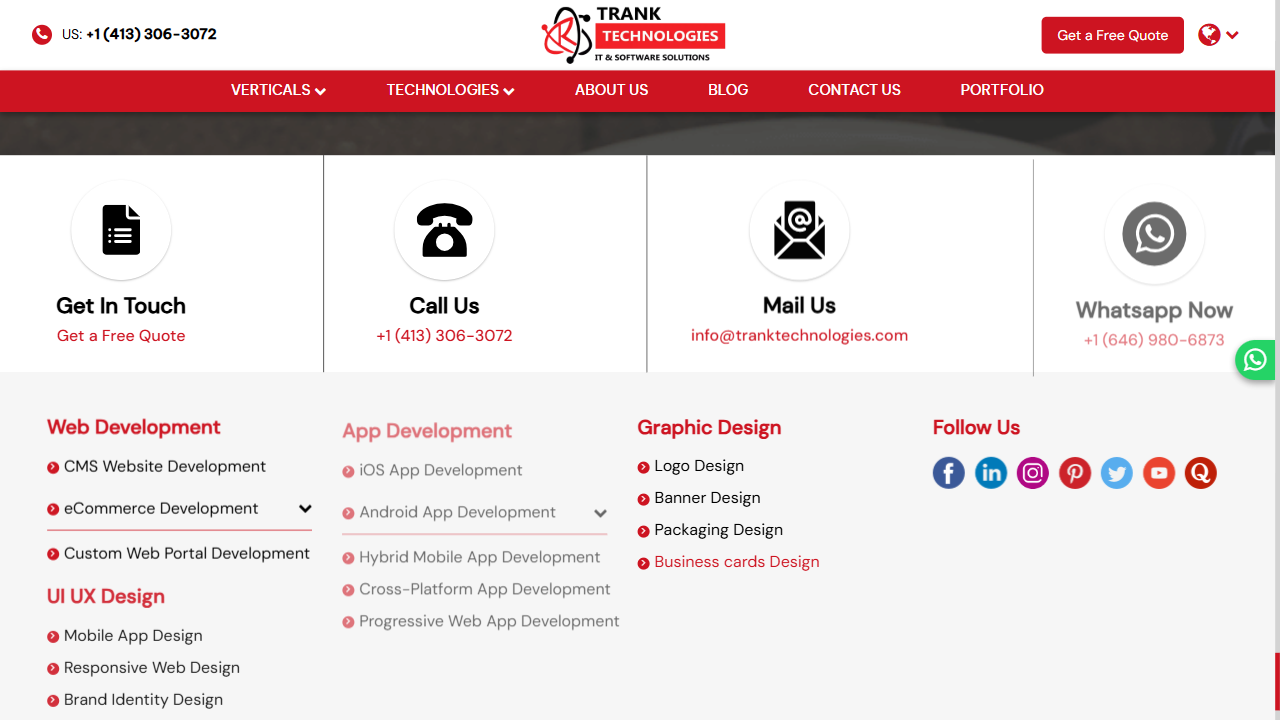
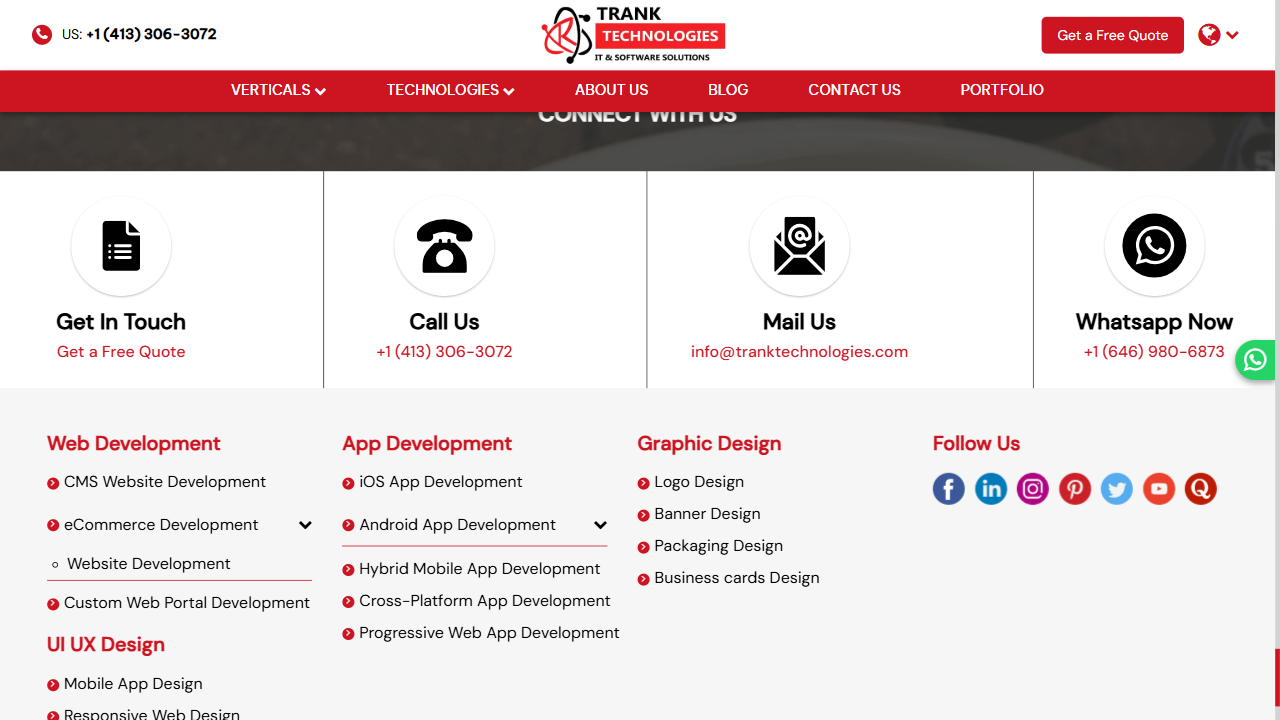
first commit

diff --git a/Automation/TrunkTechnologies/report.html b/Automation/TrunkTechnologies/report.html
@@ -328,7 +328,7 @@ div.media {
   </head>
   <body>
     <h1 id="title">report.html</h1>
-    <p>Report generated on 03-Jul-2026 at 00:01:16 by <a href="https://pypi.python.org/pypi/pytest-html">pytest-html</a>
+    <p>Report generated on 08-Jul-2026 at 00:35:15 by <a href="https://pypi.python.org/pypi/pytest-html">pytest-html</a>
         v4.2.0</p>
     <div id="environment-header">
       <h2>Environment</h2>
@@ -383,7 +383,7 @@ div.media {
         <h2>Summary</h2>
         <div class="additional-summary prefix">
         </div>
-        <p class="run-count">12 tests took 00:02:45.</p>
+        <p class="run-count">0 test took 192 ms.</p>
         <p class="filter">(Un)check the boxes to filter the results.</p>
         <div class="summary__reload">
           <div class="summary__reload__button hidden" onclick="location.reload()">
@@ -395,16 +395,16 @@ div.media {
           <div class="filters">
             <input checked="true" class="filter" name="filter_checkbox" type="checkbox" data-test-result="failed" disabled>
             <span class="failed">0 Failed,</span>
-            <input checked="true" class="filter" name="filter_checkbox" type="checkbox" data-test-result="passed" >
-            <span class="passed">12 Passed,</span>
+            <input checked="true" class="filter" name="filter_checkbox" type="checkbox" data-test-result="passed" disabled>
+            <span class="passed">0 Passed,</span>
             <input checked="true" class="filter" name="filter_checkbox" type="checkbox" data-test-result="skipped" disabled>
             <span class="skipped">0 Skipped,</span>
             <input checked="true" class="filter" name="filter_checkbox" type="checkbox" data-test-result="xfailed" disabled>
             <span class="xfailed">0 Expected failures,</span>
             <input checked="true" class="filter" name="filter_checkbox" type="checkbox" data-test-result="xpassed" disabled>
             <span class="xpassed">0 Unexpected passes,</span>
-            <input checked="true" class="filter" name="filter_checkbox" type="checkbox" data-test-result="error" disabled>
-            <span class="error">0 Errors,</span>
+            <input checked="true" class="filter" name="filter_checkbox" type="checkbox" data-test-result="error" >
+            <span class="error">6 Errors,</span>
             <input checked="true" class="filter" name="filter_checkbox" type="checkbox" data-test-result="rerun" disabled>
             <span class="rerun">0 Reruns</span>
             <input checked="true" class="filter" name="filter_checkbox" type="checkbox" data-test-result="retried" disabled>
@@ -431,7 +431,7 @@ div.media {
       </thead>
     </table>
   <footer>
-    <div id="data-container" data-jsonblob="{&#34;environment&#34;: {&#34;Python&#34;: &#34;3.14.4&#34;, &#34;Platform&#34;: &#34;Windows-11-10.0.26200-SP0&#34;, &#34;Packages&#34;: {&#34;pytest&#34;: &#34;9.1.1&#34;, &#34;pluggy&#34;: &#34;1.6.0&#34;}, &#34;Plugins&#34;: {&#34;allure-pytest&#34;: &#34;2.16.0&#34;, &#34;base-url&#34;: &#34;2.1.0&#34;, &#34;html&#34;: &#34;4.2.0&#34;, &#34;metadata&#34;: &#34;3.1.1&#34;, &#34;playwright&#34;: &#34;0.8.0&#34;}, &#34;Base URL&#34;: &#34;&#34;}, &#34;tests&#34;: {&#34;tests/test_blog.py::test_blog_click_elements&#34;: [{&#34;extras&#34;: [], &#34;result&#34;: &#34;Passed&#34;, &#34;testId&#34;: &#34;tests/test_blog.py::test_blog_click_elements&#34;, &#34;duration&#34;: &#34;00:00:25&#34;, &#34;resultsTableRow&#34;: [&#34;&lt;td class=\&#34;col-result\&#34;&gt;Passed&lt;/td&gt;&#34;, &#34;&lt;td class=\&#34;col-testId\&#34;&gt;tests/test_blog.py::test_blog_click_elements&lt;/td&gt;&#34;, &#34;&lt;td class=\&#34;col-duration\&#34;&gt;00:00:25&lt;/td&gt;&#34;, &#34;&lt;td class=\&#34;col-links\&#34;&gt;&lt;/td&gt;&#34;], &#34;log&#34;: &#34;----------------------------- Captured stdout call -----------------------------\nsuccessfully clicked on the element\nsuccessfully clicked on the element\nsuccessfully clicked on the element\nsuccessfully clicked on the element\nsuccessfully clicked on the element\nsuccessfully clicked on the element\n&#34;}], &#34;tests/test_contact.py::test_contact_form&#34;: [{&#34;extras&#34;: [], &#34;result&#34;: &#34;Passed&#34;, &#34;testId&#34;: &#34;tests/test_contact.py::test_contact_form&#34;, &#34;duration&#34;: &#34;00:00:01&#34;, &#34;resultsTableRow&#34;: [&#34;&lt;td class=\&#34;col-result\&#34;&gt;Passed&lt;/td&gt;&#34;, &#34;&lt;td class=\&#34;col-testId\&#34;&gt;tests/test_contact.py::test_contact_form&lt;/td&gt;&#34;, &#34;&lt;td class=\&#34;col-duration\&#34;&gt;00:00:01&lt;/td&gt;&#34;, &#34;&lt;td class=\&#34;col-links\&#34;&gt;&lt;/td&gt;&#34;], &#34;log&#34;: &#34;No log output captured.&#34;}], &#34;tests/test_portfol.py::test_portfolio_hover&#34;: [{&#34;extras&#34;: [], &#34;result&#34;: &#34;Passed&#34;, &#34;testId&#34;: &#34;tests/test_portfol.py::test_portfolio_hover&#34;, &#34;duration&#34;: &#34;00:00:02&#34;, &#34;resultsTableRow&#34;: [&#34;&lt;td class=\&#34;col-result\&#34;&gt;Passed&lt;/td&gt;&#34;, &#34;&lt;td class=\&#34;col-testId\&#34;&gt;tests/test_portfol.py::test_portfolio_hover&lt;/td&gt;&#34;, &#34;&lt;td class=\&#34;col-duration\&#34;&gt;00:00:02&lt;/td&gt;&#34;, &#34;&lt;td class=\&#34;col-links\&#34;&gt;&lt;/td&gt;&#34;], &#34;log&#34;: &#34;No log output captured.&#34;}], &#34;tests/test_tchnology.py::test_technology_hover&#34;: [{&#34;extras&#34;: [], &#34;result&#34;: &#34;Passed&#34;, &#34;testId&#34;: &#34;tests/test_tchnology.py::test_technology_hover&#34;, &#34;duration&#34;: &#34;00:00:07&#34;, &#34;resultsTableRow&#34;: [&#34;&lt;td class=\&#34;col-result\&#34;&gt;Passed&lt;/td&gt;&#34;, &#34;&lt;td class=\&#34;col-testId\&#34;&gt;tests/test_tchnology.py::test_technology_hover&lt;/td&gt;&#34;, &#34;&lt;td class=\&#34;col-duration\&#34;&gt;00:00:07&lt;/td&gt;&#34;, &#34;&lt;td class=\&#34;col-links\&#34;&gt;&lt;/td&gt;&#34;], &#34;log&#34;: &#34;----------------------------- Captured stdout call -----------------------------\nsuccessfully hovered on the element\nsuccessfully hovered on the element\nsuccessfully hovered on the element\n&#34;}], &#34;tests/test_tchnology.py::test_technology_ecommerce&#34;: [{&#34;extras&#34;: [], &#34;result&#34;: &#34;Passed&#34;, &#34;testId&#34;: &#34;tests/test_tchnology.py::test_technology_ecommerce&#34;, &#34;duration&#34;: &#34;00:00:24&#34;, &#34;resultsTableRow&#34;: [&#34;&lt;td class=\&#34;col-result\&#34;&gt;Passed&lt;/td&gt;&#34;, &#34;&lt;td class=\&#34;col-testId\&#34;&gt;tests/test_tchnology.py::test_technology_ecommerce&lt;/td&gt;&#34;, &#34;&lt;td class=\&#34;col-duration\&#34;&gt;00:00:24&lt;/td&gt;&#34;, &#34;&lt;td class=\&#34;col-links\&#34;&gt;&lt;/td&gt;&#34;], &#34;log&#34;: &#34;----------------------------- Captured stdout call -----------------------------\nsuccessfully clicked on the element\nsuccessfully clicked on the element\nsuccessfully clicked on the element\nsuccessfully clicked on the element\nsuccessfully clicked on the element\nsuccessfully clicked on the element\nsuccessfully clicked on the element\nsuccessfully clicked on the element\n&#34;}], &#34;tests/test_tchnology.py::test_technology_mobile&#34;: [{&#34;extras&#34;: [], &#34;result&#34;: &#34;Passed&#34;, &#34;testId&#34;: &#34;tests/test_tchnology.py::test_technology_mobile&#34;, &#34;duration&#34;: &#34;00:00:20&#34;, &#34;resultsTableRow&#34;: [&#34;&lt;td class=\&#34;col-result\&#34;&gt;Passed&lt;/td&gt;&#34;, &#34;&lt;td class=\&#34;col-testId\&#34;&gt;tests/test_tchnology.py::test_technology_mobile&lt;/td&gt;&#34;, &#34;&lt;td class=\&#34;col-duration\&#34;&gt;00:00:20&lt;/td&gt;&#34;, &#34;&lt;td class=\&#34;col-links\&#34;&gt;&lt;/td&gt;&#34;], &#34;log&#34;: &#34;----------------------------- Captured stdout call -----------------------------\nsuccessfully clicked on the element\nsuccessfully clicked on the element\nsuccessfully clicked on the element\nsuccessfully clicked on the element\nsuccessfully clicked on the element\nsuccessfully clicked on the element\n&#34;}], &#34;tests/test_vertical.py::test_vertical_hover&#34;: [{&#34;extras&#34;: [], &#34;result&#34;: &#34;Passed&#34;, &#34;testId&#34;: &#34;tests/test_vertical.py::test_vertical_hover&#34;, &#34;duration&#34;: &#34;00:00:11&#34;, &#34;resultsTableRow&#34;: [&#34;&lt;td class=\&#34;col-result\&#34;&gt;Passed&lt;/td&gt;&#34;, &#34;&lt;td class=\&#34;col-testId\&#34;&gt;tests/test_vertical.py::test_vertical_hover&lt;/td&gt;&#34;, &#34;&lt;td class=\&#34;col-duration\&#34;&gt;00:00:11&lt;/td&gt;&#34;, &#34;&lt;td class=\&#34;col-links\&#34;&gt;&lt;/td&gt;&#34;], &#34;log&#34;: &#34;----------------------------- Captured stdout call -----------------------------\nsuccessfully hovered on the element\nsuccessfully hovered on the element\nsuccessfully hovered on the element\nsuccessfully hovered on the element\nsuccessfully hovered on the element\n&#34;}], &#34;tests/test_vertical.py::test_vertical_trading&#34;: [{&#34;extras&#34;: [], &#34;result&#34;: &#34;Passed&#34;, &#34;testId&#34;: &#34;tests/test_vertical.py::test_vertical_trading&#34;, &#34;duration&#34;: &#34;00:00:18&#34;, &#34;resultsTableRow&#34;: [&#34;&lt;td class=\&#34;col-result\&#34;&gt;Passed&lt;/td&gt;&#34;, &#34;&lt;td class=\&#34;col-testId\&#34;&gt;tests/test_vertical.py::test_vertical_trading&lt;/td&gt;&#34;, &#34;&lt;td class=\&#34;col-duration\&#34;&gt;00:00:18&lt;/td&gt;&#34;, &#34;&lt;td class=\&#34;col-links\&#34;&gt;&lt;/td&gt;&#34;], &#34;log&#34;: &#34;----------------------------- Captured stdout call -----------------------------\nsuccessfully clicked trading link\nsuccessfully clicked trading link\nsuccessfully clicked trading link\nsuccessfully clicked trading link\nsuccessfully clicked trading link\nsuccessfully clicked trading link\nsuccessfully clicked trading link\n&#34;}], &#34;tests/test_vertical.py::test_vertical_retail&#34;: [{&#34;extras&#34;: [], &#34;result&#34;: &#34;Passed&#34;, &#34;testId&#34;: &#34;tests/test_vertical.py::test_vertical_retail&#34;, &#34;duration&#34;: &#34;00:00:02&#34;, &#34;resultsTableRow&#34;: [&#34;&lt;td class=\&#34;col-result\&#34;&gt;Passed&lt;/td&gt;&#34;, &#34;&lt;td class=\&#34;col-testId\&#34;&gt;tests/test_vertical.py::test_vertical_retail&lt;/td&gt;&#34;, &#34;&lt;td class=\&#34;col-duration\&#34;&gt;00:00:02&lt;/td&gt;&#34;, &#34;&lt;td class=\&#34;col-links\&#34;&gt;&lt;/td&gt;&#34;], &#34;log&#34;: &#34;----------------------------- Captured stdout call -----------------------------\nsuccessfully clicked retail link\n&#34;}], &#34;tests/test_vertical.py::test_vertical_healthcare&#34;: [{&#34;extras&#34;: [], &#34;result&#34;: &#34;Passed&#34;, &#34;testId&#34;: &#34;tests/test_vertical.py::test_vertical_healthcare&#34;, &#34;duration&#34;: &#34;00:00:04&#34;, &#34;resultsTableRow&#34;: [&#34;&lt;td class=\&#34;col-result\&#34;&gt;Passed&lt;/td&gt;&#34;, &#34;&lt;td class=\&#34;col-testId\&#34;&gt;tests/test_vertical.py::test_vertical_healthcare&lt;/td&gt;&#34;, &#34;&lt;td class=\&#34;col-duration\&#34;&gt;00:00:04&lt;/td&gt;&#34;, &#34;&lt;td class=\&#34;col-links\&#34;&gt;&lt;/td&gt;&#34;], &#34;log&#34;: &#34;----------------------------- Captured stdout call -----------------------------\nsuccessfully clicked healthcare link\nsuccessfully clicked healthcare link\n&#34;}], &#34;tests/test_vertical.py::test_vertical_fintech&#34;: [{&#34;extras&#34;: [], &#34;result&#34;: &#34;Passed&#34;, &#34;testId&#34;: &#34;tests/test_vertical.py::test_vertical_fintech&#34;, &#34;duration&#34;: &#34;00:00:05&#34;, &#34;resultsTableRow&#34;: [&#34;&lt;td class=\&#34;col-result\&#34;&gt;Passed&lt;/td&gt;&#34;, &#34;&lt;td class=\&#34;col-testId\&#34;&gt;tests/test_vertical.py::test_vertical_fintech&lt;/td&gt;&#34;, &#34;&lt;td class=\&#34;col-duration\&#34;&gt;00:00:05&lt;/td&gt;&#34;, &#34;&lt;td class=\&#34;col-links\&#34;&gt;&lt;/td&gt;&#34;], &#34;log&#34;: &#34;----------------------------- Captured stdout call -----------------------------\nsuccessfully clicked fintech link\nsuccessfully clicked fintech link\n&#34;}], &#34;tests/test_vertical.py::test_vertical_custom_app&#34;: [{&#34;extras&#34;: [], &#34;result&#34;: &#34;Passed&#34;, &#34;testId&#34;: &#34;tests/test_vertical.py::test_vertical_custom_app&#34;, &#34;duration&#34;: &#34;00:00:45&#34;, &#34;resultsTableRow&#34;: [&#34;&lt;td class=\&#34;col-result\&#34;&gt;Passed&lt;/td&gt;&#34;, &#34;&lt;td class=\&#34;col-testId\&#34;&gt;tests/test_vertical.py::test_vertical_custom_app&lt;/td&gt;&#34;, &#34;&lt;td class=\&#34;col-duration\&#34;&gt;00:00:45&lt;/td&gt;&#34;, &#34;&lt;td class=\&#34;col-links\&#34;&gt;&lt;/td&gt;&#34;], &#34;log&#34;: &#34;----------------------------- Captured stdout call -----------------------------\nsuccessfully clicked custom app link\nsuccessfully clicked custom app link\nsuccessfully clicked custom app link\nsuccessfully clicked custom app link\nsuccessfully clicked custom app link\nsuccessfully clicked custom app link\nsuccessfully clicked custom app link\nsuccessfully clicked custom app link\nsuccessfully clicked custom app link\n&#34;}]}, &#34;renderCollapsed&#34;: [&#34;passed&#34;], &#34;initialSort&#34;: &#34;result&#34;, &#34;title&#34;: &#34;report.html&#34;}"></div>
+    <div id="data-container" data-jsonblob="{&#34;environment&#34;: {&#34;Python&#34;: &#34;3.14.4&#34;, &#34;Platform&#34;: &#34;Windows-11-10.0.26200-SP0&#34;, &#34;Packages&#34;: {&#34;pytest&#34;: &#34;9.1.1&#34;, &#34;pluggy&#34;: &#34;1.6.0&#34;}, &#34;Plugins&#34;: {&#34;allure-pytest&#34;: &#34;2.16.0&#34;, &#34;base-url&#34;: &#34;2.1.0&#34;, &#34;html&#34;: &#34;4.2.0&#34;, &#34;metadata&#34;: &#34;3.1.1&#34;, &#34;playwright&#34;: &#34;0.8.0&#34;}, &#34;Base URL&#34;: &#34;&#34;}, &#34;tests&#34;: {&#34;tests/test_about.py&#34;: [{&#34;extras&#34;: [], &#34;result&#34;: &#34;Error&#34;, &#34;testId&#34;: &#34;tests/test_about.py::collect&#34;, &#34;duration&#34;: &#34;0 ms&#34;, &#34;resultsTableRow&#34;: [&#34;&lt;td class=\&#34;col-result\&#34;&gt;Error&lt;/td&gt;&#34;, &#34;&lt;td class=\&#34;col-testId\&#34;&gt;tests/test_about.py::collect&lt;/td&gt;&#34;, &#34;&lt;td class=\&#34;col-duration\&#34;&gt;0 ms&lt;/td&gt;&#34;, &#34;&lt;td class=\&#34;col-links\&#34;&gt;&lt;/td&gt;&#34;], &#34;log&#34;: &#34;import file mismatch:\nimported module &amp;#x27;test_about&amp;#x27; has this __file__ attribute:\n  D:\\PlayWrite\\Automation\\TrunkTechnologies\\Playwright_Files\\Automation\\TrunkTechnologies\\tests\\test_about.py\nwhich is not the same as the test file we want to collect:\n  D:\\PlayWrite\\Automation\\TrunkTechnologies\\tests\\test_about.py\nHINT: remove __pycache__ / .pyc files and/or use a unique basename for your test file modules\n&#34;}], &#34;tests/test_blog.py&#34;: [{&#34;extras&#34;: [], &#34;result&#34;: &#34;Error&#34;, &#34;testId&#34;: &#34;tests/test_blog.py::collect&#34;, &#34;duration&#34;: &#34;0 ms&#34;, &#34;resultsTableRow&#34;: [&#34;&lt;td class=\&#34;col-result\&#34;&gt;Error&lt;/td&gt;&#34;, &#34;&lt;td class=\&#34;col-testId\&#34;&gt;tests/test_blog.py::collect&lt;/td&gt;&#34;, &#34;&lt;td class=\&#34;col-duration\&#34;&gt;0 ms&lt;/td&gt;&#34;, &#34;&lt;td class=\&#34;col-links\&#34;&gt;&lt;/td&gt;&#34;], &#34;log&#34;: &#34;import file mismatch:\nimported module &amp;#x27;test_blog&amp;#x27; has this __file__ attribute:\n  D:\\PlayWrite\\Automation\\TrunkTechnologies\\Playwright_Files\\Automation\\TrunkTechnologies\\tests\\test_blog.py\nwhich is not the same as the test file we want to collect:\n  D:\\PlayWrite\\Automation\\TrunkTechnologies\\tests\\test_blog.py\nHINT: remove __pycache__ / .pyc files and/or use a unique basename for your test file modules\n&#34;}], &#34;tests/test_contact.py&#34;: [{&#34;extras&#34;: [], &#34;result&#34;: &#34;Error&#34;, &#34;testId&#34;: &#34;tests/test_contact.py::collect&#34;, &#34;duration&#34;: &#34;0 ms&#34;, &#34;resultsTableRow&#34;: [&#34;&lt;td class=\&#34;col-result\&#34;&gt;Error&lt;/td&gt;&#34;, &#34;&lt;td class=\&#34;col-testId\&#34;&gt;tests/test_contact.py::collect&lt;/td&gt;&#34;, &#34;&lt;td class=\&#34;col-duration\&#34;&gt;0 ms&lt;/td&gt;&#34;, &#34;&lt;td class=\&#34;col-links\&#34;&gt;&lt;/td&gt;&#34;], &#34;log&#34;: &#34;import file mismatch:\nimported module &amp;#x27;test_contact&amp;#x27; has this __file__ attribute:\n  D:\\PlayWrite\\Automation\\TrunkTechnologies\\Playwright_Files\\Automation\\TrunkTechnologies\\tests\\test_contact.py\nwhich is not the same as the test file we want to collect:\n  D:\\PlayWrite\\Automation\\TrunkTechnologies\\tests\\test_contact.py\nHINT: remove __pycache__ / .pyc files and/or use a unique basename for your test file modules\n&#34;}], &#34;tests/test_portfol.py&#34;: [{&#34;extras&#34;: [], &#34;result&#34;: &#34;Error&#34;, &#34;testId&#34;: &#34;tests/test_portfol.py::collect&#34;, &#34;duration&#34;: &#34;0 ms&#34;, &#34;resultsTableRow&#34;: [&#34;&lt;td class=\&#34;col-result\&#34;&gt;Error&lt;/td&gt;&#34;, &#34;&lt;td class=\&#34;col-testId\&#34;&gt;tests/test_portfol.py::collect&lt;/td&gt;&#34;, &#34;&lt;td class=\&#34;col-duration\&#34;&gt;0 ms&lt;/td&gt;&#34;, &#34;&lt;td class=\&#34;col-links\&#34;&gt;&lt;/td&gt;&#34;], &#34;log&#34;: &#34;import file mismatch:\nimported module &amp;#x27;test_portfol&amp;#x27; has this __file__ attribute:\n  D:\\PlayWrite\\Automation\\TrunkTechnologies\\Playwright_Files\\Automation\\TrunkTechnologies\\tests\\test_portfol.py\nwhich is not the same as the test file we want to collect:\n  D:\\PlayWrite\\Automation\\TrunkTechnologies\\tests\\test_portfol.py\nHINT: remove __pycache__ / .pyc files and/or use a unique basename for your test file modules\n&#34;}], &#34;tests/test_tchnology.py&#34;: [{&#34;extras&#34;: [], &#34;result&#34;: &#34;Error&#34;, &#34;testId&#34;: &#34;tests/test_tchnology.py::collect&#34;, &#34;duration&#34;: &#34;0 ms&#34;, &#34;resultsTableRow&#34;: [&#34;&lt;td class=\&#34;col-result\&#34;&gt;Error&lt;/td&gt;&#34;, &#34;&lt;td class=\&#34;col-testId\&#34;&gt;tests/test_tchnology.py::collect&lt;/td&gt;&#34;, &#34;&lt;td class=\&#34;col-duration\&#34;&gt;0 ms&lt;/td&gt;&#34;, &#34;&lt;td class=\&#34;col-links\&#34;&gt;&lt;/td&gt;&#34;], &#34;log&#34;: &#34;import file mismatch:\nimported module &amp;#x27;test_tchnology&amp;#x27; has this __file__ attribute:\n  D:\\PlayWrite\\Automation\\TrunkTechnologies\\Playwright_Files\\Automation\\TrunkTechnologies\\tests\\test_tchnology.py\nwhich is not the same as the test file we want to collect:\n  D:\\PlayWrite\\Automation\\TrunkTechnologies\\tests\\test_tchnology.py\nHINT: remove __pycache__ / .pyc files and/or use a unique basename for your test file modules\n&#34;}], &#34;tests/test_vertical.py&#34;: [{&#34;extras&#34;: [], &#34;result&#34;: &#34;Error&#34;, &#34;testId&#34;: &#34;tests/test_vertical.py::collect&#34;, &#34;duration&#34;: &#34;0 ms&#34;, &#34;resultsTableRow&#34;: [&#34;&lt;td class=\&#34;col-result\&#34;&gt;Error&lt;/td&gt;&#34;, &#34;&lt;td class=\&#34;col-testId\&#34;&gt;tests/test_vertical.py::collect&lt;/td&gt;&#34;, &#34;&lt;td class=\&#34;col-duration\&#34;&gt;0 ms&lt;/td&gt;&#34;, &#34;&lt;td class=\&#34;col-links\&#34;&gt;&lt;/td&gt;&#34;], &#34;log&#34;: &#34;import file mismatch:\nimported module &amp;#x27;test_vertical&amp;#x27; has this __file__ attribute:\n  D:\\PlayWrite\\Automation\\TrunkTechnologies\\Playwright_Files\\Automation\\TrunkTechnologies\\tests\\test_vertical.py\nwhich is not the same as the test file we want to collect:\n  D:\\PlayWrite\\Automation\\TrunkTechnologies\\tests\\test_vertical.py\nHINT: remove __pycache__ / .pyc files and/or use a unique basename for your test file modules\n&#34;}]}, &#34;renderCollapsed&#34;: [&#34;passed&#34;], &#34;initialSort&#34;: &#34;result&#34;, &#34;title&#34;: &#34;report.html&#34;}"></div>
     <script>
       (function(){function r(e,n,t){function o(i,f){if(!n[i]){if(!e[i]){var c="function"==typeof require&&require;if(!f&&c)return c(i,!0);if(u)return u(i,!0);var a=new Error("Cannot find module '"+i+"'");throw a.code="MODULE_NOT_FOUND",a}var p=n[i]={exports:{}};e[i][0].call(p.exports,function(r){var n=e[i][1][r];return o(n||r)},p,p.exports,r,e,n,t)}return n[i].exports}for(var u="function"==typeof require&&require,i=0;i<t.length;i++)o(t[i]);return o}return r})()({1:[function(require,module,exports){
 const { getCollapsedCategory, setCollapsedIds } = require('./storage.js')

diff --git a/Automation/TrunkTechnologies/conftest.py b/Automation/TrunkTechnologies/conftest.py
@@ -1,33 +1,46 @@
+import shutil
 from pathlib import Path
+
 import pytest
-from playwright.sync_api import sync_playwright
 import pytest_html
+from playwright.sync_api import sync_playwright
 
 from config import url
 
[email redacted](scope="session")
+
+def _ensure_output_dirs() -> None:
+    Path("screenshots").mkdir(exist_ok=True)
+    Path("videos").mkdir(exist_ok=True)
 
 
-def page(request):
-    
[email redacted]
+def page():
+    _ensure_output_dirs()
+
     p = sync_playwright().start()
-    browser=p.chromium.launch(headless=False)
-    context = browser.new_context(ignore_https_errors=True)
+    browser = p.chromium.launch(headless=False)
+    context = browser.new_context(
+        ignore_https_errors=True,
+        record_video_dir=str(Path("videos")),
+        record_video_size={"width": 1280, "height": 720},
+    )
     page = context.new_page()
 
     page.goto(url)
     page.wait_for_load_state("load")
-    
-    
+
     yield page
 
-    context.close()
-    browser.close()
-    p.stop()
+    try:
+        context.close()
+    except Exception:
+        pass
+    finally:
+        browser.close()
+        p.stop()
 
 
 @pytest.hookimpl(hookwrapper=True)
-
 def pytest_runtest_makereport(item, call):
     outcome = yield
     report = outcome.get_result()
@@ -38,98 +51,33 @@ def pytest_runtest_makereport(item, call):
         page = item.funcargs.get("page")
 
         if page:
-            screenshots_dir = Path("screenshots")
-            screenshots_dir.mkdir(exist_ok=True)
+            _ensure_output_dirs()
 
-            file_name = screenshots_dir / f"{item.name}.png"
+            screenshot_path = Path("screenshots") / f"{item.name}.png"
+            page.screenshot(path=str(screenshot_path))
+            extra.append(pytest_html.extras.image(str(screenshot_path)))
 
-            page.screenshot(path=str(file_name))
+            try:
+                context = page.context
+                context.close()
+            except Exception as exc:
+                print(f"[Warning] Could not close context before reading video: {exc}")
 
-            extra.append(pytest_html.extras.image(str(file_name)))
+            try:
+                video = getattr(page, "video", None)
+                if video:
+                    video_path = video.path()
+                    if video_path and Path(video_path).exists():
+                        video_name = Path("videos") / f"{item.name}.webm"
+                        shutil.copy2(video_path, video_name)
+                        extra.append(
+                            pytest_html.extras.html(
+                                f'<video width="320" height="240" controls><source src="{video_name}" type="video/webm"></video>'
+                            )
+                        )
+                    else:
+                        print("[Warning] No video was recorded for this failure.")
+            except Exception as exc:
+                print(f"[Warning] Failed to attach video: {exc}")
 
         report.extra = extra
-
-
-
-
-
-    # @pytest.hookimpl(hookwrapper=True)
-
-    # def pytest_runtest_makereport(item, call):
-    #     outcome = yield
-    #     report = outcome.get_result()
-
-    #     extra = getattr(report, "extra", [])
-
-    #     if report.when == "call" and report.failed:
-    #         page = item.funcargs.get("page")
-
-    #         if page:
-    #             screenshots_dir = Path("screenshots")
-    #             screenshots_dir.mkdir(exist_ok=True)
-
-    #             file_name = screenshots_dir / f"{item.name}.png"
-
-    #             page.screenshot(path=str(file_name))
-
-    #             extra.append(pytest_html.extras.image(str(file_name)))
-
-    #             # Retrieve video path and append to report
-    #             if page.video:
-    #                 extra.append(pytest_html.extras.html(f'<video width="320" height="240" controls><source src="{page.video.path()}"type="video/webm"></video>'))
-
-    #         report.extra = extra
-
-
-
-    # import shutil
-    # from pathlib import Path
-    # import pytest
-
-    # @pytest.hookimpl(hookwrapper=True)
-    # def pytest_runtest_makereport(item, call):
-    #     outcome = yield
-    #     report = outcome.get_result()
-
-    #     extra = getattr(report, "extra", [])
-
-    #     if report.when == "call" and report.failed:
-    #         page = item.funcargs.get("page")
-
-    #         if page:
-    #             screenshots_dir = Path("screenshots")
-    #             screenshots_dir.mkdir(exist_ok=True)
-
-    #             file_name = screenshots_dir / f"{item.name}.png"
-
-    #             page.screenshot(path=str(file_name))
-
-    #             extra.append(pytest_html.extras.image(str(file_name)))
-
-    #         report.extra = extra
-    #         item.call_report = report  # Store reference to report for the teardown phase
-
-    #     # During teardown, the browser context is closed, so the video file is ready on disk
-    #     if report.when == "teardown" and hasattr(item, "call_report"):
-    #         page = item.funcargs.get("page")
-    #         if page and page.video:
-    #             try:
-    #                 video_path = page.video.path()
-    #                 if Path(video_path).exists():
-    #                     screenshots_dir = Path("screenshots")
-    #                     screenshots_dir.mkdir(exist_ok=True)
-
-    #                     # Copy the video to the screenshots folder
-    #                     dest_video = screenshots_dir / f"{item.name}.webm"
-    #                     shutil.copy(video_path, dest_video)
-
-    #                     # Attach the copied video to the call report
-    #                     item.call_report.extra.append(
-    #                         pytest_html.extras.html(
-    #                             f'<video width="320" height="240" controls>'
-    #                             f'  <source src="{dest_video}" type="video/webm">'
-    #                             f'</video>'
-    #                         )
-    #                     )
-    #             except Exception as e:
-    #                 print(f"\n[Warning] Failed to attach video: {e}")

diff --git a/Automation/TrunkTechnologies/pages/about.py b/Automation/TrunkTechnologies/pages/about.py
@@ -38,48 +38,51 @@ class about:
      
         for index,locator in enumerate(self.socail_list,start=1):
             locator.click()
-            self.page.wait_for_load_state(state="load")
+            self.page.wait_for_timeout(2000)
             self.page.go_back()
+            self.page.wait_for_timeout(2000)
             # Print before clicking to know what the script is attempting
             print(f"[{index}/{len(self.socail_list)}] Clicking locator: {locator}")
             
             locator.click()
-            self.page.wait_for_load_state(state="load")
+            self.page.wait_for_timeout(2000)
             
             print(f"Successfully loaded page for locator {index}. Navigating back...")
             self.page.go_back()
             
         print("All pages processed successfully!")
 
-        self.arrow1=page.locator('(//i[@class="fa fa-chevron-down text-red-2"])[1]').click()
-        self.page.wait_for_load_state(state="load")
+        self.arrow1=self.page.locator('(//i[@class="fa fa-chevron-down text-red-2"])[1]').click()
+        self.page.wait_for_timeout(2000)
         print("click arrow1")
         with self.page.context.expect_page() as new_page_info:
             self.page.locator('//a[@href="https://www.tranktechnologies.com/website-development-company"]').click()
             print("clicked website")
         new_tab = new_page_info.value
-        new_tab.wait_for_load_state()
+        new_tab.page.wait_for_timeout(2000)
         self.page.bring_to_front()
-        self.page.wait_for_load_state(state="load")
+        self.page.wait_for_timeout(2000)
 
-        self.arrow2=page.locator('(//i[@class="fa fa-chevron-down text-red-2"])[2]').click()
-        self.page.wait_for_load_state(state="load")
+        self.arrow2=self.page.locator('(//i[@class="fa fa-chevron-down text-red-2"])[2]').click()
+        self.page.wait_for_timeout(2000)
         print("Clcked Arrow2")
         with self.page.context.expect_page() as new_page_info:
-            self.androidAppDev=page.locator('//a[@href="https://www.tranktechnologies.com/android-app-development-company"]').click()
+            self.androidAppDev=self.page.locator('//a[@href="https://www.tranktechnologies.com/android-app-development-company"]').click()
             print("clicked android")
         new_tab = new_page_info.value
-        new_tab.wait_for_load_state()
+        new_tab.page.wait_for_timeout(2000)
         self.page.bring_to_front()
         self.page.wait_for_load_state(state="load")
 
-        self.arrow3=page.locator('(//i[@class="fa fa-chevron-down text-red-2"])[3]').click()
+        self.arrow3=self.page.locator('(//i[@class="fa fa-chevron-down text-red-2"])[3]').click()
+        self.page.wait_for_load_state(state="load")
+
         with self.page.context.expect_page() as new_page_info:
-            self.appDeve=page.locator('(//a[@href="https://www.tranktechnologies.com/app-development-company"])[2]').click()
+            self.appDeve=self.page.locator('(//a[@href="https://www.tranktechnologies.com/app-development-company"])[2]').click()
             print("clicked company")
 
         new_tab = new_page_info.value
-        new_tab.wait_for_load_state()
+        new_tab.page.wait_for_timeout(2000)
         self.page.bring_to_front()
         self.page.wait_for_load_state(state="load")
 

diff --git a/Automation/pdf.py b/Automation/pdf.py
@@ -1,0 +1,15 @@
+import sys
+
+from docx2pdf import convert
+
+def docx_to_pdf(docx_path, pdf_path):
+    try:
+        convert(docx_path, pdf_path)
+        print(f"Successfully converted {docx_path} to {pdf_path}")
+    except Exception as e:
+        print(f"Error during conversion: {e}")
+
+if __name__ == '__main__':
+    docx_path = r"C:\Users\ADMIN\OneDrive\Desktop\MY_REASUMES\ManikantaKasu_Resume.docx"
+    pdf_path = r"C:\Users\ADMIN\OneDrive\Desktop\MY_REASUMES\ManikantaKasu_Resume.pdf"
+    docx_to_pdf(docx_path, pdf_path)

diff --git a/Automation/TrunkTechnologies/tests/test_about.py b/Automation/TrunkTechnologies/tests/test_about.py
@@ -7,3 +7,4 @@ from pages.about import about
 def test_click_social_media_pages(page):
     a1 = about(page)
     a1.click_social_media_pages()
+    